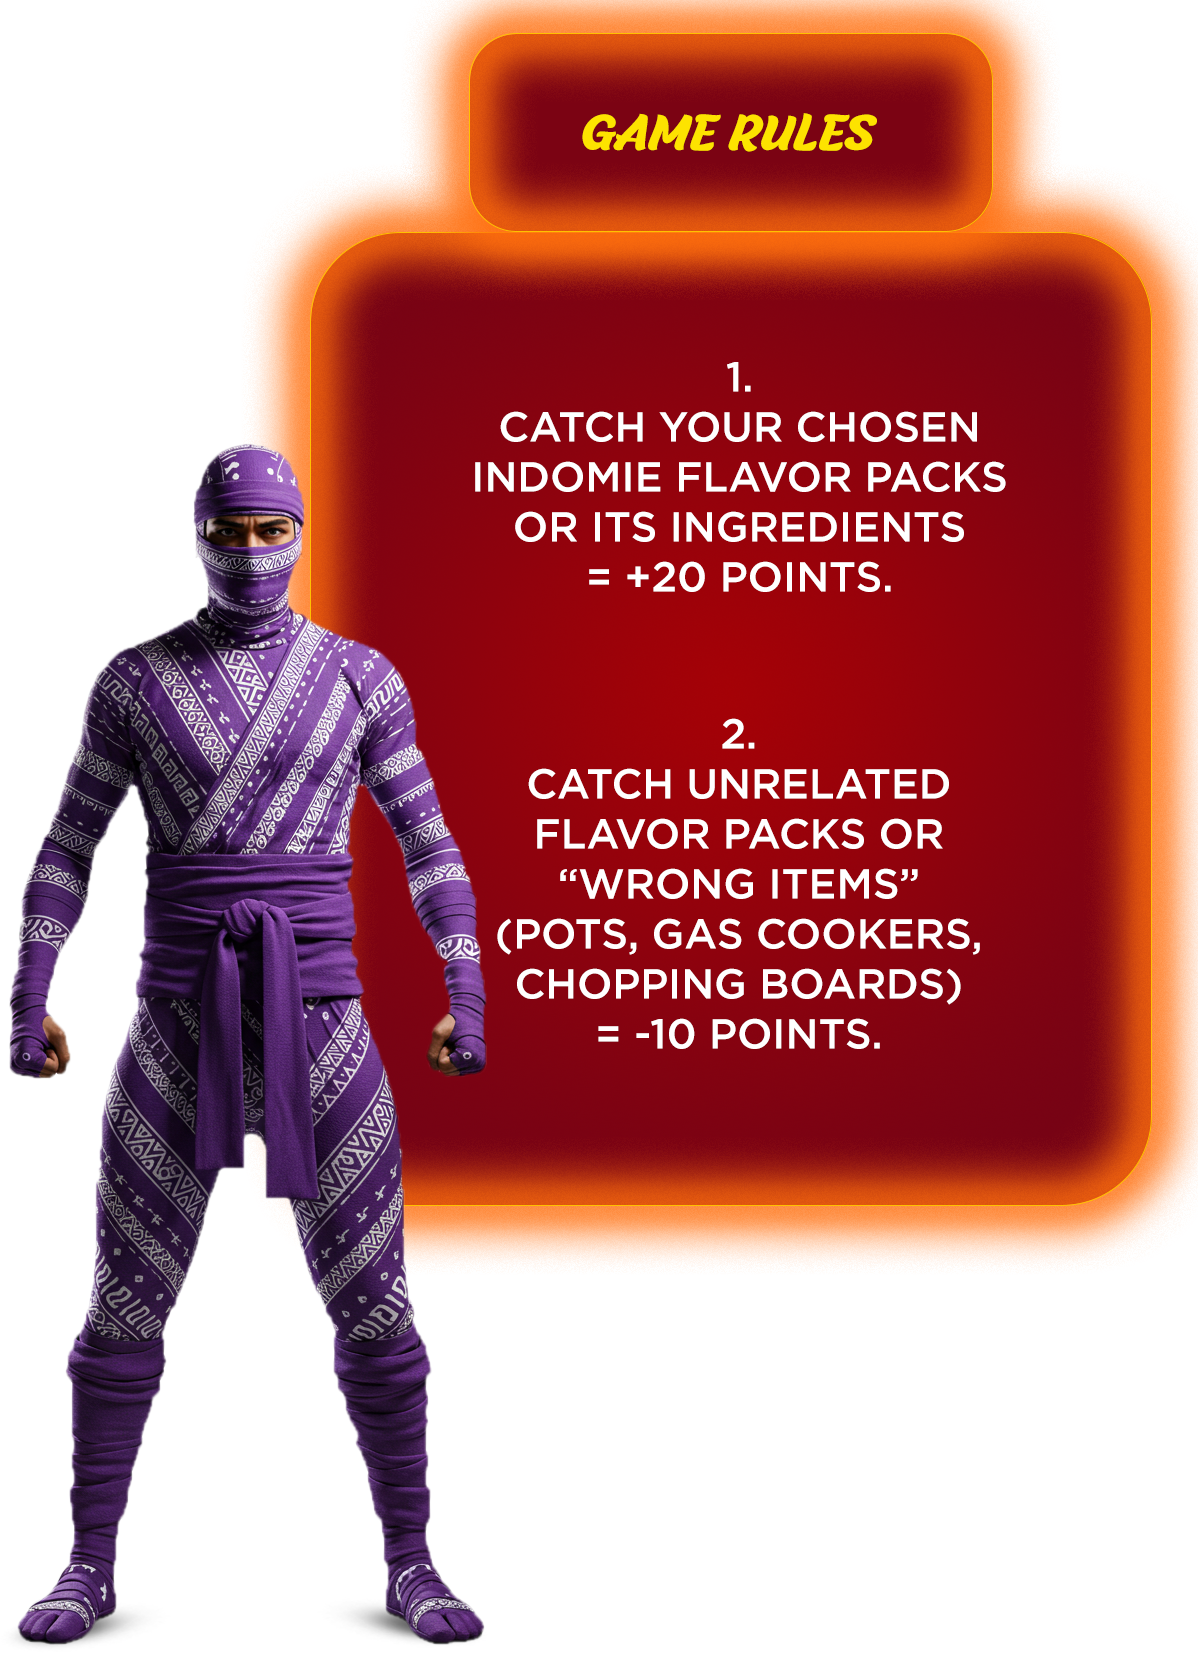
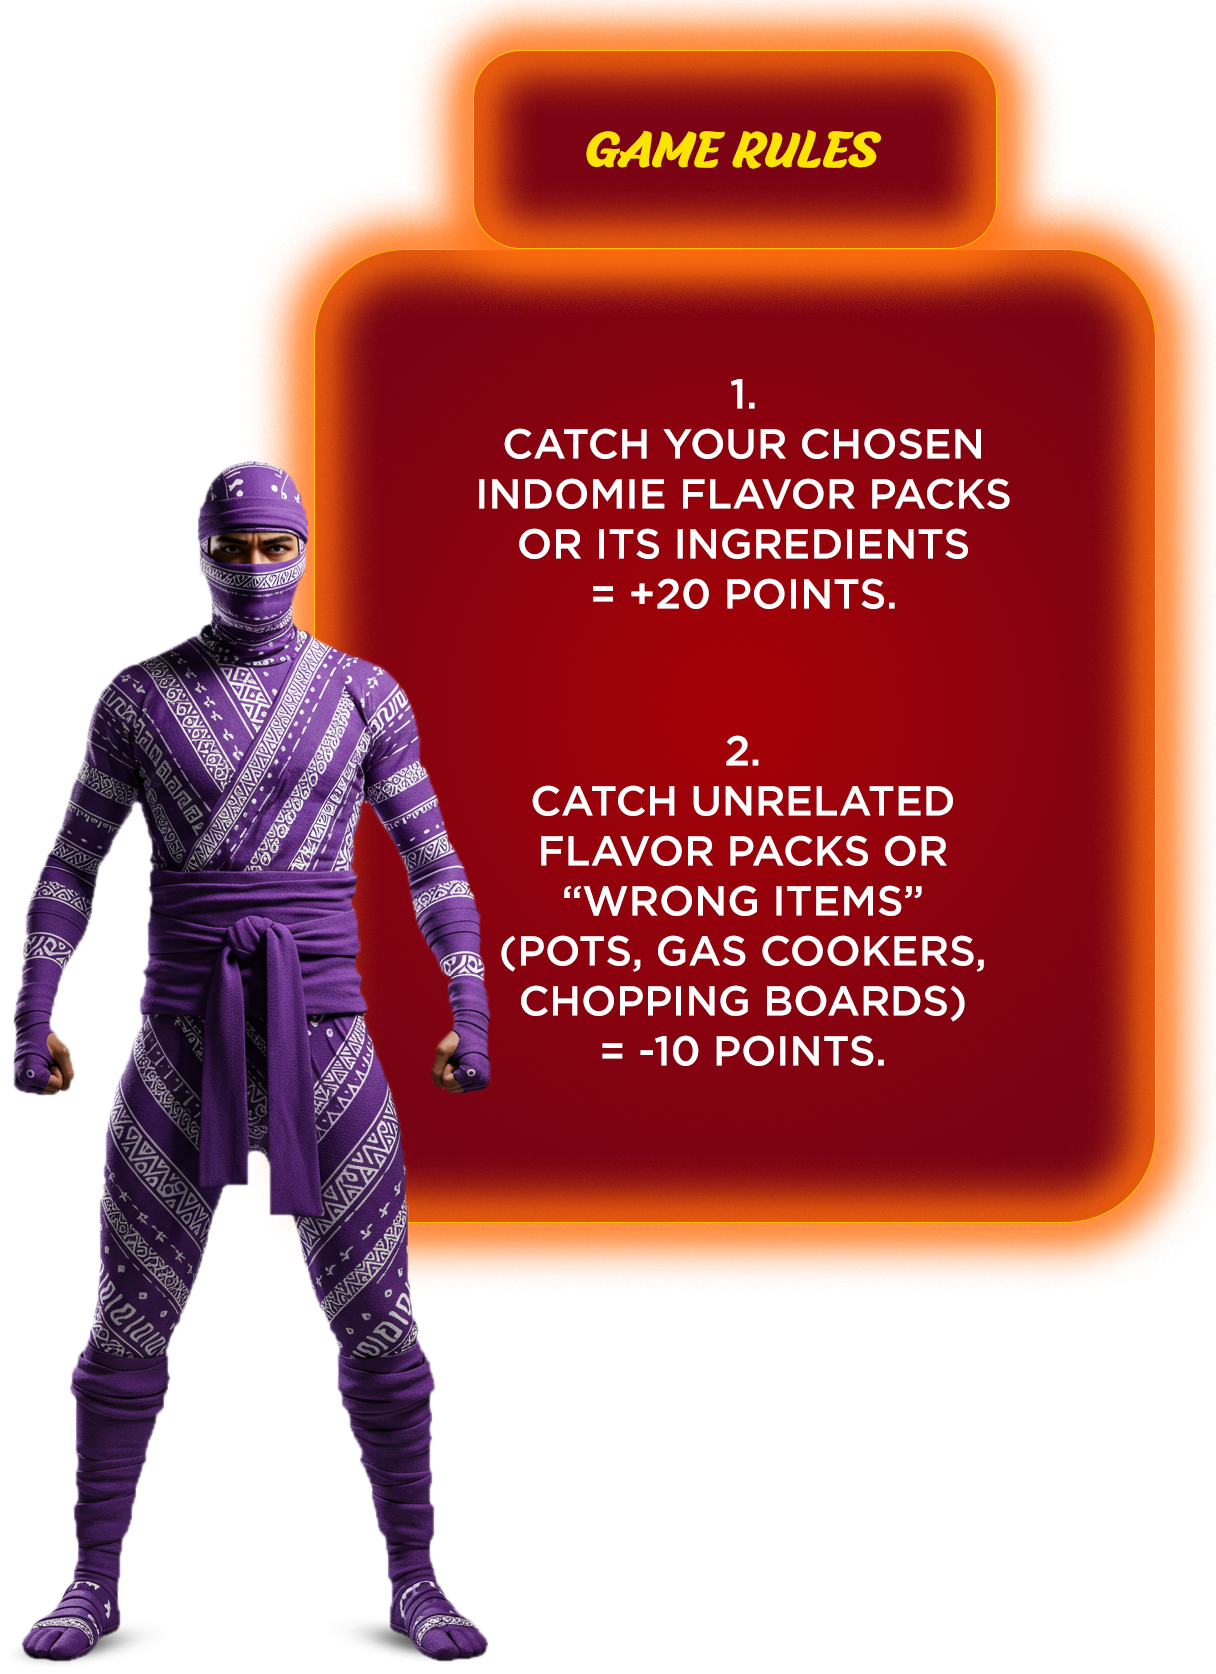
new blockkchinegame7dice

Changed region(s): [[0.0, 0.2462, 0.8957, 1.0], [0.2162, 0.0, 1.0, 0.7387], [0.3706, 0.2154, 0.8339, 0.3693]]

diff --git a/src/components/Rules.jsx b/src/components/Rules.jsx
@@ -3,7 +3,7 @@ import { useNavigate, Link } from "react-router-dom";
 import { motion, AnimatePresence, useAnimation } from "framer-motion";
 import backgroundImage from "../assets/Other stage background.png";
 import indomieLogo from "../assets/Large Indomie log.png";
-import gameRule1 from "../assets/Game rule 1.png";
+import gameRule1 from "../assets/Game rukle.png";
 import gameRule2 from "../assets/Game rule 2.png";
 import ContinueButton from "../assets/Continue.png";
 import Right from "../assets/Right Button.png";
